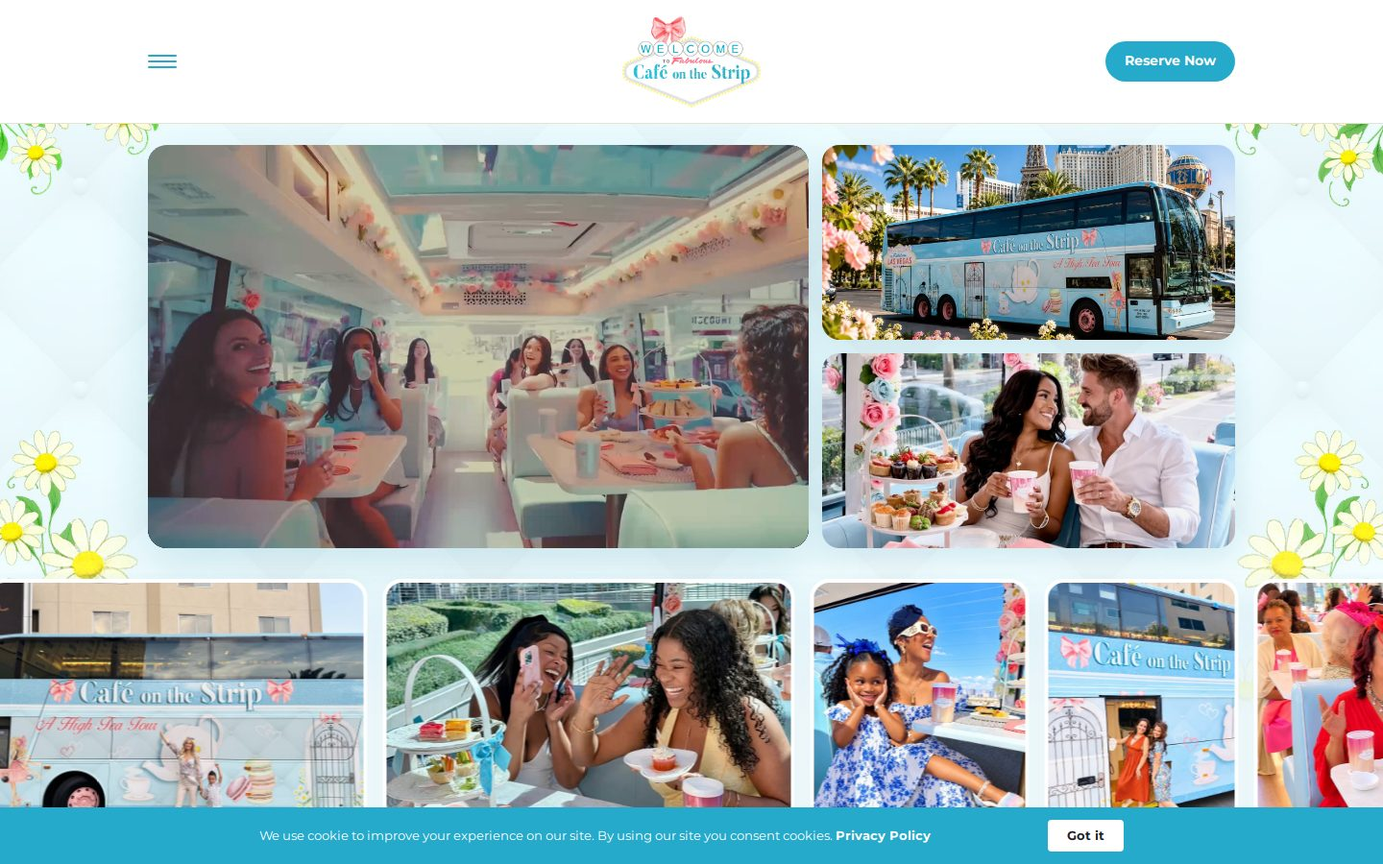
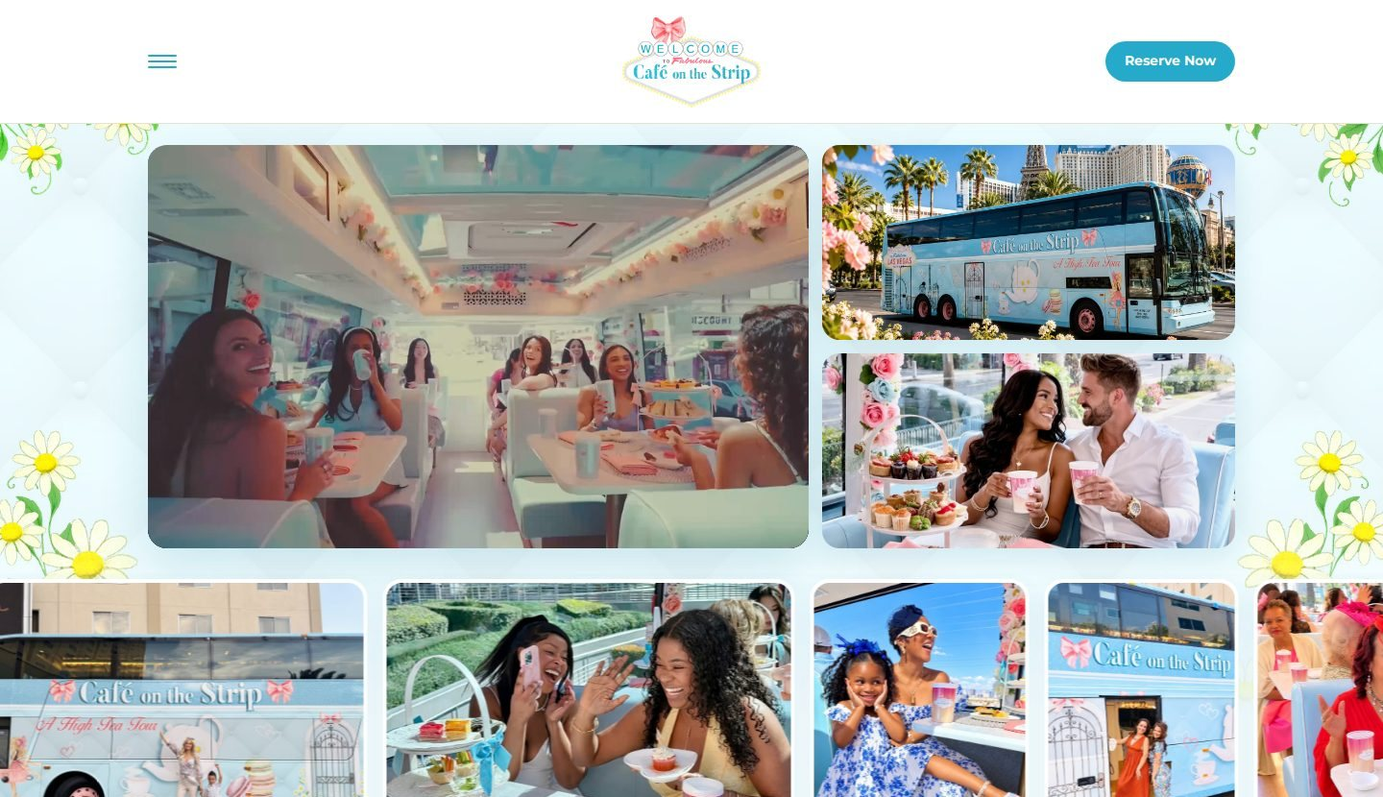
Homepage copy edits from review; Peaks replaces Booty Thai in clients; drop open-rate and traffic boxes
Claude-Session: https://claude.ai/code/session_01Q4xLUYNNi7cM25MPAQdF7H

diff --git a/index.html b/index.html
@@ -148,8 +148,8 @@ header nav .btn{min-height:44px;padding:12px 22px}
 .deliv li::after{content:"";width:6px;height:6px;border-radius:50%;background:var(--rule2);align-self:center;flex-shrink:0;transition:background .3s}
 .deliv li:hover::after{background:var(--orange)}
 .proof{display:block;position:relative;border-radius:10px;overflow:hidden;border:1px solid var(--rule2);background:var(--panel)}
-.proof .shot{height:420px;overflow:hidden}
-.proof .shot img{width:100%;height:118%;object-fit:cover;object-position:top;will-change:transform}
+.proof .shot{aspect-ratio:1440/900;overflow:hidden;background:var(--ink)}
+.proof .shot img{width:100%;height:100%;object-fit:cover;object-position:top center}
 .proof .bar{display:flex;justify-content:space-between;align-items:center;gap:16px;padding:16px 20px;background:var(--ink);border-top:1px solid var(--rule2)}
 .proof .bar small{display:block;font-size:11px;letter-spacing:2px;font-weight:600;color:var(--dim)}
 .proof .bar span{font-size:15px;font-weight:600}
@@ -285,7 +285,7 @@ footer nav{display:flex;gap:24px;flex-wrap:wrap}
   .fix .stat{justify-self:start}
   .fix .was,.fix .to{font-size:17px}
   .svc-intro{margin-bottom:56px}
-  .proof .shot{height:260px}
+  
   .meterbox{padding:24px}.meterbox .big{font-size:72px}
   .clients-head{flex-direction:column;align-items:flex-start;gap:20px}
   .cgrid,.pgrid{grid-template-columns:1fr}
@@ -381,7 +381,7 @@ footer nav{display:flex;gap:24px;flex-wrap:wrap}
           <div class="ch-body">
             <div class="rv">
               <p>Websites, stores and brands built to turn a visit into a booking, an order or a call.</p>
-              <ul class="deliv"><li>Webflow websites</li><li>Shopify stores and booking systems</li><li>Landing pages by audience</li><li>Brand books and logo systems</li><li>Staff tools and automations</li></ul>
+              <ul class="deliv"><li>Website development</li><li>Ecommerce customization and booking systems</li><li>Landing pages by audience</li><li>Logo and style guide creation</li><li>Staff tools and automations</li></ul>
             </div>
             <div class="rv">
               <a class="proof" href="cosmic-cat.html">
@@ -389,12 +389,6 @@ footer nav{display:flex;gap:24px;flex-wrap:wrap}
                 <div class="bar"><div><small>RECENT WORK</small><span>Cosmic Cat party bookings on Shopify</span></div><span class="go">View project →</span></div>
               </a>
             </div>
-          </div>
-          <div class="meterbox rv" style="max-width:640px">
-            <div class="lbl">Cafe on the Strip, after the website rebuild</div>
-            <div class="big"><span>+</span><span class="count-up" data-to="15">15</span><small>%</small></div>
-            <p>Site traffic after we rebuilt the Cafe on the Strip website, along with more private event requests. [Date range and comparison period to confirm]</p>
-            <a href="cafe-on-the-strip.html">See the Cafe on the Strip work</a>
           </div>
         </article>
 
@@ -407,7 +401,7 @@ footer nav{display:flex;gap:24px;flex-wrap:wrap}
             </div>
             <div class="vids rv">
               <a href="video/#/video/liuna-event-sizzle-reel" aria-label="LIUNA event sizzle reel"><img src="https://i.ytimg.com/vi/BVcCxSfqfWM/hqdefault.jpg" alt="" loading="lazy"><span class="play"><svg viewBox="0 0 24 24" aria-hidden="true"><path d="M6 4l14 8-14 8z"/></svg></span></a><a href="video/#/video/las-vegas-ballpark-club-ball-showdown" aria-label="Las Vegas Ballpark Club Ball Showdown"><img src="https://i.ytimg.com/vi/4AgsZDz6i4E/hqdefault.jpg" alt="" loading="lazy"><span class="play"><svg viewBox="0 0 24 24" aria-hidden="true"><path d="M6 4l14 8-14 8z"/></svg></span></a><a href="video/#/video/dragon-sponsor-gala-interview-reel" aria-label="Gala interview reel"><img src="https://i.ytimg.com/vi/6BNDppvrbQU/hqdefault.jpg" alt="" loading="lazy"><span class="play"><svg viewBox="0 0 24 24" aria-hidden="true"><path d="M6 4l14 8-14 8z"/></svg></span></a><a href="video/#/video/unlv-football-foundation-golf-recap" aria-label="UNLV Football Foundation golf recap"><img src="https://i.ytimg.com/vi/_neFfasAwqs/hqdefault.jpg" alt="" loading="lazy"><span class="play"><svg viewBox="0 0 24 24" aria-hidden="true"><path d="M6 4l14 8-14 8z"/></svg></span></a>
-              <a class="vids-more" href="video/">All nine videos <b>Open the library →</b></a>
+              <a class="vids-more" href="video/">Video work <b>View our work →</b></a>
             </div>
           </div>
         </article>
@@ -417,19 +411,13 @@ footer nav{display:flex;gap:24px;flex-wrap:wrap}
           <div class="ch-body">
             <div class="rv">
               <p>Newsletters and automated flows on a list you own, so your best customers hear from you first.</p>
-              <ul class="deliv"><li>List cleanup and segmentation</li><li>Monthly newsletters</li><li>Welcome and win-back flows</li><li>Donor and member programs</li><li>SMS and chat lead capture</li></ul>
+              <ul class="deliv"><li>List cleanup and segmentation</li><li>Engaging newsletter communication</li><li>List building, welcome and win-back flows</li><li>Donor and member programs</li><li>SMS and chat lead capture</li></ul>
             </div>
-            <div class="meterbox rv" id="emailmeter">
-              <div class="lbl">Email open rates we see</div>
-              <div class="big"><span class="count-up" data-to="45" data-from="19">45</span><small>%</small></div>
-              <div class="gauge" role="img" aria-label="Open rates rise from 19 percent on a new list to 45 percent on a segmented, managed list">
-                <div class="fill" id="gaugefill"></div>
-                <div class="tick a" style="left:19%"><span>New list, 19%</span></div>
-                <div class="tick b" style="left:45%"><span>Managed list, 45%</span></div>
-              </div>
-              <div class="gauge-scale"><span>0%</span><span>100%</span></div>
-              <p>A brand new list opens near 19%. Drai's After Hours started there with their first newsletter. A segmented list of engaged readers, sent relevant content on a steady schedule, reaches 45%.</p>
-              <a href="drais-after-hours.html">See the Drai's newsletter work</a>
+            <div class="rv">
+              <a class="proof" href="miracle-hope-foundation.html">
+                <div class="shot"><img src="assets/shots/miracle-hope-foundation-desk.jpg" alt="Miracle Hope Foundation website"></div>
+                <div class="bar"><div><small>RECENT WORK</small><span>Miracle Hope Foundation: newsletter and donor updates</span></div><span class="go">View project →</span></div>
+              </a>
             </div>
           </div>
         </article>
@@ -440,7 +428,7 @@ footer nav{display:flex;gap:24px;flex-wrap:wrap}
             <div class="rv">
               <p>People now ask ChatGPT, Google's AI Overviews and Perplexity which business to call. These tools write one answer and name a few businesses. GEO is the work behind getting your business named in those answers.</p>
               <p>We pair GEO with local search, listings, structured data and paid ads, so you show up in Google results and in AI answers.</p>
-              <ul class="deliv"><li>Google Business Profile</li><li>Schema and site structure</li><li>Google Ads</li><li>Meta ads and pixel tracking</li><li>Traffic reports</li></ul>
+              <ul class="deliv"><li>Claiming and setup of Google Business Profile</li><li>Schema and site structure</li><li>Google Ads setup and tracking</li><li>Meta ads and pixel tracking</li><li>Monthly reporting to track success and changes</li></ul>
             </div>
             <div class="rv">
               <a class="proof" href="cafe-on-the-strip.html">
@@ -462,9 +450,9 @@ footer nav{display:flex;gap:24px;flex-wrap:wrap}
       <p>Open any client to see every project we delivered for them.</p>
     </div>
     <div class="cgrid">
-      <a class="ccard rv" href="cosmic-cat.html"><div class="im"><img src="assets/shots/cosmic-cat-desk.jpg" alt="" loading="lazy"></div><div class="tx"><span class="ind">Family entertainment</span><h3 class="os">Cosmic Cat Claw Arcade</h3><div class="tags"><span>Setup</span><span>Design &amp; web</span><span>Search</span></div><span class="more">See every project →</span></div></a><a class="ccard rv" href="drais-after-hours.html"><div class="im"><img src="assets/shots/drais-bachelorette-desk.jpg" alt="" loading="lazy"></div><div class="tx"><span class="ind">Nightlife</span><h3 class="os">Drai&#x27;s After Hours</h3><div class="tags"><span>Design &amp; web</span><span>Email</span><span>Search</span></div><span class="more">See every project →</span></div></a><a class="ccard rv" href="cafe-on-the-strip.html"><div class="im"><img src="assets/shots/cafe-on-the-strip-desk.jpg" alt="" loading="lazy"></div><div class="tx"><span class="ind">Tours and hospitality</span><h3 class="os">Cafe on the Strip</h3><div class="tags"><span>Design &amp; web</span><span>Content</span><span>Search</span></div><span class="more">See every project →</span></div></a><a class="ccard rv" href="tyler-robinson-foundation.html"><div class="im"><img src="assets/a9a64227ffe4d25c3906b8d315104791.jpg" alt="" loading="lazy"></div><div class="tx"><span class="ind">Nonprofit</span><h3 class="os">Tyler Robinson Foundation</h3><div class="tags"><span>Design &amp; web</span><span>Video</span></div><span class="more">See every project →</span></div></a><a class="ccard rv" href="miracle-hope-foundation.html"><div class="im"><img src="assets/shots/miracle-hope-foundation-desk.jpg" alt="" loading="lazy"></div><div class="tx"><span class="ind">Nonprofit</span><h3 class="os">Miracle Hope Foundation</h3><div class="tags"><span>Design &amp; web</span><span>Email</span></div><span class="more">See every project →</span></div></a><a class="ccard rv" href="booty-thai-kitchen.html"><div class="im"><img src="assets/shots/booty-thai-kitchen-desk.jpg" alt="" loading="lazy"></div><div class="tx"><span class="ind">Restaurant</span><h3 class="os">Booty Thai Kitchen</h3><div class="tags"><span>Design &amp; web</span></div><span class="more">See every project →</span></div></a>
+      <a class="ccard rv" href="cosmic-cat.html"><div class="im"><img src="assets/shots/cosmic-cat-desk.jpg" alt="" loading="lazy"></div><div class="tx"><span class="ind">Family entertainment</span><h3 class="os">Cosmic Cat Claw Arcade</h3><div class="tags"><span>Setup</span><span>Design &amp; web</span><span>Search</span></div><span class="more">See every project →</span></div></a><a class="ccard rv" href="drais-after-hours.html"><div class="im"><img src="assets/shots/drais-bachelorette-desk.jpg" alt="" loading="lazy"></div><div class="tx"><span class="ind">Nightlife</span><h3 class="os">Drai&#x27;s After Hours</h3><div class="tags"><span>Design &amp; web</span><span>Email</span><span>Search</span></div><span class="more">See every project →</span></div></a><a class="ccard rv" href="cafe-on-the-strip.html"><div class="im"><img src="assets/shots/cafe-on-the-strip-desk.jpg" alt="" loading="lazy"></div><div class="tx"><span class="ind">Tours and hospitality</span><h3 class="os">Cafe on the Strip</h3><div class="tags"><span>Design &amp; web</span><span>Content</span><span>Search</span></div><span class="more">See every project →</span></div></a><a class="ccard rv" href="tyler-robinson-foundation.html"><div class="im"><img src="assets/a9a64227ffe4d25c3906b8d315104791.jpg" alt="" loading="lazy"></div><div class="tx"><span class="ind">Nonprofit</span><h3 class="os">Tyler Robinson Foundation</h3><div class="tags"><span>Design &amp; web</span><span>Video</span></div><span class="more">See every project →</span></div></a><a class="ccard rv" href="miracle-hope-foundation.html"><div class="im"><img src="assets/shots/miracle-hope-foundation-desk.jpg" alt="" loading="lazy"></div><div class="tx"><span class="ind">Nonprofit</span><h3 class="os">Miracle Hope Foundation</h3><div class="tags"><span>Design &amp; web</span><span>Email</span></div><span class="more">See every project →</span></div></a><a class="ccard rv" href="peaks-advisory-group.html"><div class="im"><img src="assets/shots/peaks-advisory-group-desk.jpg" alt="" loading="lazy"></div><div class="tx"><span class="ind">HR consulting</span><h3 class="os">Peaks Advisory Group</h3><div class="tags"><span>Design &amp; web</span></div><span class="more">See every project →</span></div></a>
     </div>
-    <p class="also rv">Also: Fatburger Hughes Center, Peaks Advisory Group, UNLV Football Foundation, Desert Moon Wellness</p>
+    <p class="also rv">Also: Fatburger Hughes Center, Booty Thai Kitchen, UNLV Football Foundation, Desert Moon Wellness</p>
   </div>
 </section>
 
@@ -555,7 +543,7 @@ footer nav{display:flex;gap:24px;flex-wrap:wrap}
 
   // email gauge: fill to 19, pause, then to 45
   var fill = document.getElementById('gaugefill');
-  if (!reduce){
+  if (fill && !reduce){
     fill.style.width = '0%';
     var go = new IntersectionObserver(function(es){
       if (!es[0].isIntersecting) return; go.disconnect();
@@ -568,7 +556,7 @@ footer nav{display:flex;gap:24px;flex-wrap:wrap}
   // services: active chapter + progress meter + gentle image parallax
   var links = document.querySelectorAll('.toc a'), meter = document.getElementById('tocmeter');
   var chs = Array.prototype.map.call(links, function(a){ return document.getElementById(a.dataset.ch); });
-  var pars = document.querySelectorAll('.proof img.par');
+  var pars = [];
   var ticking = false;
   function onScroll(){
     ticking = false;

diff --git a/peaks-advisory-group.html b/peaks-advisory-group.html
@@ -1,0 +1,151 @@
+<!doctype html>
+<html lang="en">
+<head>
+<meta charset="utf-8">
+<link rel="icon" type="image/png" sizes="32x32" href="assets/icons/favicon-light-32.png" media="(prefers-color-scheme: light)">
+<link rel="icon" type="image/png" sizes="32x32" href="assets/icons/favicon-dark-32.png" media="(prefers-color-scheme: dark)">
+<link rel="icon" type="image/png" sizes="192x192" href="assets/icons/favicon-light-192.png">
+<link rel="apple-touch-icon" href="assets/icons/apple-touch-icon.png">
+<title>Peaks Advisory Group Client Page</title>
+<meta name="viewport" content="width=device-width, initial-scale=1">
+<meta name="robots" content="noindex, nofollow">
+<style id="responsive">
+html,body{overflow-x:hidden}
+.root{width:100%!important;max-width:none!important;height:auto!important;min-height:100vh}
+.rbar{width:auto!important}
+img{max-width:100%}
+@media (max-width:1100px){
+ .gut{padding-left:40px!important;padding-right:40px!important}
+ .gutm{margin-left:40px!important;margin-right:40px!important;padding-left:40px!important;padding-right:40px!important}
+ .rbar{padding-left:40px!important;padding-right:40px!important}
+ .t1{font-size:76px!important}
+ .t2{font-size:52px!important}
+ .t3{font-size:40px!important}
+ .g2{grid-template-columns:1fr!important;gap:40px!important}
+ .g3{grid-template-columns:repeat(2,minmax(0,1fr))!important}
+ .stack{height:auto!important;display:grid!important;grid-template-columns:repeat(3,minmax(0,1fr));gap:16px}
+ .stack-item{position:static!important;width:auto!important;transform:none!important;box-shadow:none!important}
+ .stack-item img{height:220px!important}
+ .topnav{gap:24px!important}
+ .img-tall{height:480px!important}
+}
+@media (max-width:720px){
+ .gut,.rbar{padding-left:16px!important;padding-right:16px!important}
+ .gutm{margin-left:16px!important;margin-right:16px!important;padding-left:24px!important;padding-right:24px!important}
+ .sec{padding-top:72px!important}
+ .secm{margin-top:72px!important;padding-top:48px!important;padding-bottom:48px!important}
+ header.gut{height:72px!important}
+ header.gut img{height:30px!important}
+ .topnav a:not(:last-child){display:none}
+ .topnav a:last-child{padding:12px 18px!important}
+ .t1{font-size:52px!important;letter-spacing:0!important}
+ .t2{font-size:38px!important}
+ .t3{font-size:32px!important}
+ .t4{font-size:26px!important}
+ .g3,.g4{grid-template-columns:1fr!important}
+ .g4m{grid-template-columns:repeat(2,minmax(0,1fr))!important;gap:24px!important}
+ .grow{grid-template-columns:1fr!important;gap:6px!important;padding:18px 0!important}
+ .gclient{grid-template-columns:88px minmax(0,1fr) 20px!important;column-gap:16px!important;row-gap:4px!important;align-items:start!important}
+ .gclient>img{width:88px!important;height:56px!important;grid-column:1;grid-row:1/4}
+ .gclient>span:nth-child(2){grid-column:2;grid-row:1;font-size:22px!important;line-height:1.1}
+ .gclient>span:nth-child(3){grid-column:2;grid-row:2;font-size:14px!important}
+ .gclient>span:nth-child(4){grid-column:2;grid-row:3;font-size:11px!important}
+ .gclient>span:nth-child(5){grid-column:3;grid-row:1}
+ .flexwrap{flex-wrap:wrap!important;gap:16px 24px!important}
+ .stackm{flex-direction:column!important;align-items:flex-start!important;gap:24px!important}
+ .garrow{grid-template-columns:1fr!important}
+ .garrow>div:nth-child(2){transform:rotate(90deg)}
+ .stack{grid-template-columns:1fr!important}
+ .stack-item:not(:last-child){display:none!important}
+ .stack-item img{height:240px!important}
+ .img-tall{height:260px!important}
+ .wrap{flex-direction:column!important;align-items:flex-start!important;gap:28px!important}
+ .wrap a[style*="font-size: 64px"]{font-size:40px!important}
+ .p-lg{font-size:17px!important}
+ .btns{flex-wrap:wrap}
+ .btns a{flex:1 1 100%;text-align:center}
+ .pad40{padding:24px!important}
+}
+</style>
+<style id="bands">
+.band{background:#12233D!important;padding-bottom:120px!important;border-top:none!important}
+.band-pad{padding-bottom:120px!important}
+.band + section:not(.gutm){border-top:none!important}
+@media (max-width:720px){.band,.band-pad{padding-bottom:72px!important}}
+</style>
+</head>
+<body>
+<div class="rbar" style="background:#E8B547;color:#0A1629;font:600 13px Inter,sans-serif;padding:10px 80px;width:1440px;box-sizing:border-box">Review mockup. Not live. <a href="index.html" style="color:#0A1629;text-decoration:underline">Home</a> · <a href="index.html#clients" style="color:#0A1629;text-decoration:underline">Clients</a> · <a href="video/" style="color:#0A1629;text-decoration:underline">Video pages</a></div>
+
+
+<link rel="preconnect" href="https://fonts.googleapis.com">
+<link href="https://fonts.googleapis.com/css2?family=Oswald:wght@400;500;600&amp;family=Inter:wght@400;500;600;700&amp;display=swap" rel="stylesheet">
+<style>
+body{margin:0;background:#0A1629;font-family:Inter,system-ui,sans-serif;color:#FFFFFF}
+a{color:#FFFFFF;text-decoration:none}a:hover{color:#2BA9E0}
+</style>
+
+<div class="root" style="width: 1440px; min-height: 100vh; box-sizing: border-box; background: #0A1629; display: flex; flex-direction: column; font-family: Inter, system-ui, sans-serif; color: #FFFFFF; overflow: visible">
+
+<header class="gut" style="height: 96px; flex-shrink: 0; box-sizing: border-box; padding: 0 80px; display: flex; align-items: center; justify-content: space-between; border-bottom: 1px solid #1B2E4F">
+<a href="index.html"><img src="assets/3385846c2862af121979557625220301.png" alt="Day One Marketing" style="height: 40px; width: auto"></a>
+<nav class="topnav" style="display: flex; align-items: center; gap: 40px; font-size: 15px; font-weight: 500">
+<a href="index.html">Services</a>
+<a href="index.html#clients">Clients</a>
+<a href="video/">Video</a>
+<a href="index.html">About</a>
+<a href="index.html">Contact</a>
+<a href="index.html" style="padding: 14px 26px; border-radius: 4px; background: #ED5E3C; color: #0A1629; font-weight: 700">Book a call</a>
+</nav>
+</header>
+
+
+<section class="gut" style="flex-shrink: 0; box-sizing: border-box; padding: 96px 80px 64px; display: flex; flex-direction: column; gap: 36px">
+<div style="font-size: 14px; font-weight: 500; color: #8093B0"><a href="index.html#clients" style="color: #9FB3CC">Clients</a>  /  Peaks Advisory Group</div>
+<h1 class="t1" style="margin: 0; font-family: Oswald, sans-serif; font-weight: 500; font-size: 112px; line-height: 0.95; text-transform: uppercase">Peaks<br>Advisory Group</h1>
+<p class="p-lg" style="margin: 0; max-width: 780px; font-size: 21px; line-height: 1.55; color: #B7C6DA">An HR consulting firm for scaling mid-market companies. We built the website and the brand files behind it.</p>
+<div class="g4m" style="display: grid; grid-template-columns: repeat(4, minmax(0, 1fr)); gap: 32px; padding-top: 32px; border-top: 1px solid #1B2E4F"><div style="display: flex; flex-direction: column; gap: 8px"><span style="font-size: 12px; letter-spacing: 2px; font-weight: 600; color: #8093B0">INDUSTRY</span><span style="font-size: 17px">HR consulting</span></div><div style="display: flex; flex-direction: column; gap: 8px"><span style="font-size: 12px; letter-spacing: 2px; font-weight: 600; color: #8093B0">SERVICES</span><span style="font-size: 17px">Design &amp; web</span></div><div style="display: flex; flex-direction: column; gap: 8px"><span style="font-size: 12px; letter-spacing: 2px; font-weight: 600; color: #8093B0">PLATFORMS</span><span style="font-size: 17px"><span style="color: #E8B547">[confirm]</span></span></div><div style="display: flex; flex-direction: column; gap: 8px"><span style="font-size: 12px; letter-spacing: 2px; font-weight: 600; color: #8093B0">PROJECTS DELIVERED</span><span style="font-size: 17px"><span style="color: #E8B547">[count]</span></span></div></div>
+</section>
+
+<section class="band-pad gut" style="flex-shrink: 0; box-sizing: border-box; padding: 0 80px">
+<div style="border-radius: 10px; overflow: hidden; background: #13233F; border: 1px solid #22385E">
+<div style="height: 34px; display: flex; align-items: center; gap: 7px; padding: 0 16px"><span style="width: 10px; height: 10px; border-radius: 50%; background: #2E4468"></span><span style="width: 10px; height: 10px; border-radius: 50%; background: #2E4468"></span><span style="width: 10px; height: 10px; border-radius: 50%; background: #2E4468"></span></div>
+<img src="assets/shots/peaks-advisory-group-desk.jpg" alt="Peaks Advisory Group website" class="img-tall" style="display: block; width: 100%; height: 760px; object-fit: cover; object-position: top">
+</div>
+</section>
+
+<section class="band gut sec" style="flex-shrink: 0; box-sizing: border-box; padding: 140px 80px 0; display: flex; flex-direction: column; gap: 64px">
+<div class="g2" style="display: grid; grid-template-columns: minmax(0, 1fr) minmax(0, 1fr); gap: 48px; align-items: end">
+<div style="display: flex; flex-direction: column; gap: 20px">
+<div style="font-size: 13px; letter-spacing: 3px; font-weight: 600; color: #9FB3CC">EVERYTHING WE DELIVERED</div>
+<h2 class="t2" style="margin: 0; font-family: Oswald, sans-serif; font-weight: 500; font-size: 64px; line-height: 1; text-transform: uppercase">The full list.</h2>
+</div>
+<p style="margin: 0; font-size: 18px; line-height: 1.55; color: #9FB3CC">Grouped by discipline. Each row is a finished piece of work, with the platform it runs on.</p>
+</div>
+<div style="display: flex; flex-direction: column; gap: 24px">
+<div style="display: flex; align-items: baseline; gap: 16px"><span style="font-family: Oswald, sans-serif; font-size: 22px; color: #ED5E3C">i.</span><h3 class="t4" style="margin: 0; font-family: Oswald, sans-serif; font-weight: 500; font-size: 36px; text-transform: uppercase">Design &amp; web</h3></div>
+<div style="display: flex; flex-direction: column; border-top: 1px solid #1B2E4F">
+<div class="grow" style="padding: 22px 0; border-bottom: 1px solid #1B2E4F; display: grid; grid-template-columns: minmax(0, 4fr) minmax(0, 6fr) minmax(0, 2fr); gap: 32px; align-items: baseline"><span style="font-size: 19px; font-weight: 600">Website</span><span style="font-size: 16px; line-height: 1.55; color: #9FB3CC">Home, about, services and contact pages built around one offer: HR help during growth and M&amp;A. <span style="color: #E8B547">[confirm scope]</span></span><span style="font-size: 14px; color: #C9D5E6"><span style="color: #E8B547">[platform]</span></span></div><div class="grow" style="padding: 22px 0; border-bottom: 1px solid #1B2E4F; display: grid; grid-template-columns: minmax(0, 4fr) minmax(0, 6fr) minmax(0, 2fr); gap: 32px; align-items: baseline"><span style="font-size: 19px; font-weight: 600">Logo files</span><span style="font-size: 16px; line-height: 1.55; color: #9FB3CC">Logo versions for light and dark backgrounds. <span style="color: #E8B547">[confirm]</span></span><span style="font-size: 14px; color: #C9D5E6">Brand</span></div><div class="grow" style="padding: 22px 0; border-bottom: 1px solid #1B2E4F; display: grid; grid-template-columns: minmax(0, 4fr) minmax(0, 6fr) minmax(0, 2fr); gap: 32px; align-items: baseline"><span style="font-size: 19px; font-weight: 600">Favicon set</span><span style="font-size: 16px; line-height: 1.55; color: #9FB3CC">Browser and phone icons in every size.</span><span style="font-size: 14px; color: #C9D5E6">Brand</span></div>
+</div>
+</div>
+</section>
+
+<section class="gut sec g2" style="flex-shrink: 0; box-sizing: border-box; padding: 140px 80px 0; display: grid; grid-template-columns: minmax(0, 4fr) minmax(0, 8fr); gap: 80px">
+<div style="font-size: 13px; letter-spacing: 3px; font-weight: 600; color: #9FB3CC">THE RESULT</div>
+<div class="pad40" style="box-sizing: border-box; padding: 40px; border-radius: 8px; border: 1px dashed #E8B547; color: #E8B547; font-size: 20px; line-height: 1.5">[ RESULT: inquiries, booked calls or traffic change, with the date range and the condition behind the number ]</div>
+</section>
+
+<section class="gut secm wrap" style="flex-grow: 1; box-sizing: border-box; margin-top: 140px; padding: 72px 80px; border-top: 1px solid #1B2E4F; display: flex; justify-content: space-between; align-items: center">
+<div style="display: flex; flex-direction: column; gap: 12px">
+<span style="font-size: 13px; letter-spacing: 3px; font-weight: 600; color: #9FB3CC">NEXT CLIENT</span>
+<a href="cosmic-cat.html" class="t2" style="font-family: Oswald, sans-serif; font-weight: 500; font-size: 64px; text-transform: uppercase">Cosmic Cat Claw Arcade</a>
+</div>
+<a href="index.html#contact" style="padding: 20px 40px; border-radius: 4px; background: #ED5E3C; color: #0A1629; font-size: 16px; font-weight: 700">Book a 30-minute call</a>
+</section>
+
+
+</div>
+
+
+</body>
+</html>

diff --git a/booty-thai-kitchen.html b/booty-thai-kitchen.html
@@ -138,7 +138,7 @@ a{color:#FFFFFF;text-decoration:none}a:hover{color:#2BA9E0}
 <section class="gut secm wrap" style="flex-grow: 1; box-sizing: border-box; margin-top: 140px; padding: 72px 80px; border-top: 1px solid #1B2E4F; display: flex; justify-content: space-between; align-items: center">
 <div style="display: flex; flex-direction: column; gap: 12px">
 <span style="font-size: 13px; letter-spacing: 3px; font-weight: 600; color: #9FB3CC">NEXT CLIENT</span>
-<a href="cosmic-cat.html" class="t2" style="font-family: Oswald, sans-serif; font-weight: 500; font-size: 64px; text-transform: uppercase">Cosmic Cat Claw Arcade</a>
+<a href="peaks-advisory-group.html" class="t2" style="font-family: Oswald, sans-serif; font-weight: 500; font-size: 64px; text-transform: uppercase">Peaks Advisory Group</a>
 </div>
 <a href="index.html#contact" style="padding: 20px 40px; border-radius: 4px; background: #ED5E3C; color: #0A1629; font-size: 16px; font-weight: 700">Book a 30-minute call</a>
 </section>

diff --git a/tools/shots.js b/tools/shots.js
@@ -43,6 +43,7 @@ const sites = [
             if (await loc.count()) { await loc.first().click({ timeout: 2000 }).catch(() => {}); }
           }
         }
+        await p.addStyleTag({ content: '[class*=cookie i],[id*=cookie i],[class*=consent i],[id*=consent i],[class*=gdpr i]{display:none!important}' }).catch(() => {});
         await p.waitForTimeout(800);
         await p.screenshot({ path: `assets/shots/${name}-${tag}.jpg`, type: 'jpeg', quality: 82 });
         report.push(`${name} ${tag} ok ${r && r.status()} ${p.url()}`);
